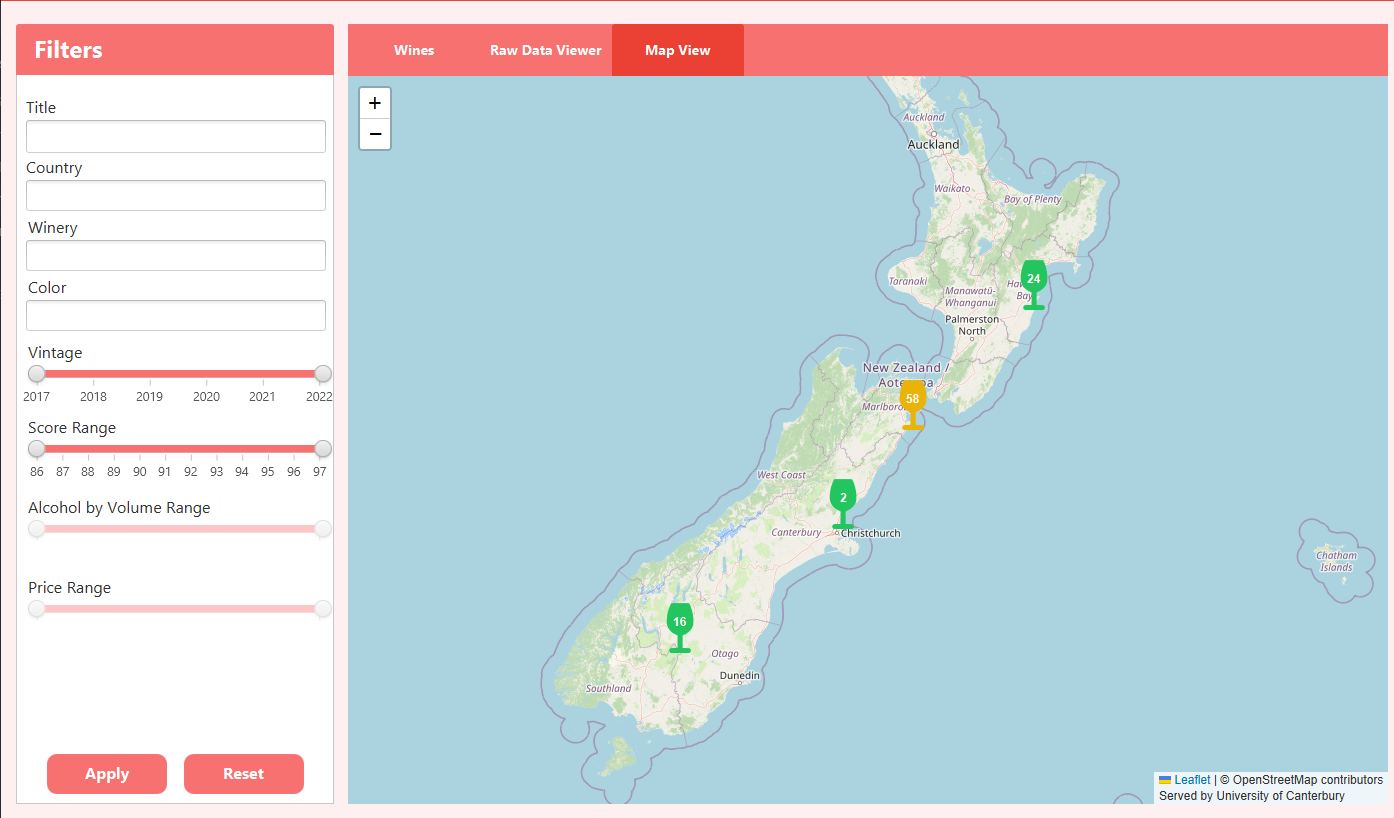
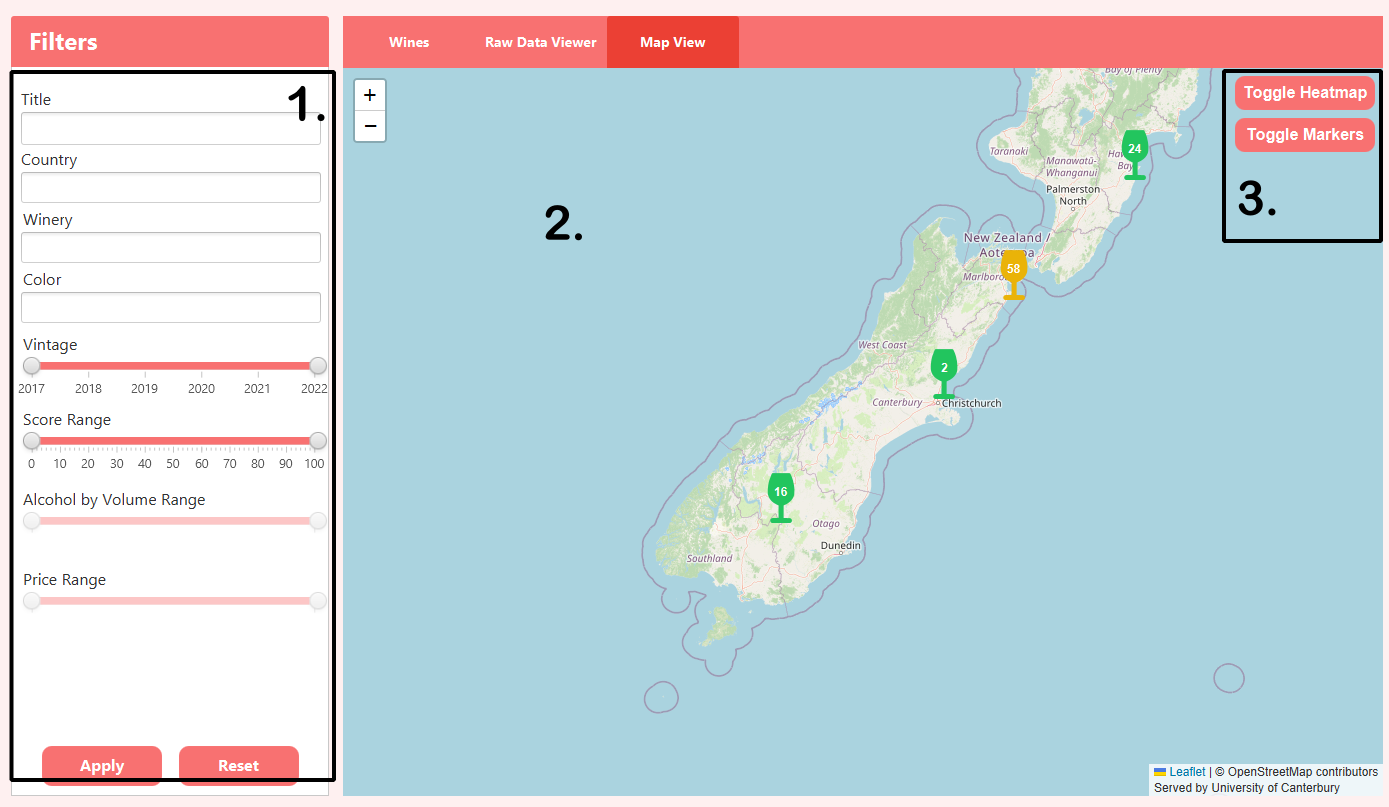
More manual pages; more images

Changed region(s): [[0.0, 0.0, 1.0, 0.9913], [0.9287, 0.6506, 0.9906, 0.7125], [0.3715, 0.2478, 0.4334, 0.3098]]

diff --git a/src/main/resources/html/map.html b/src/main/resources/html/map.html
@@ -1,0 +1,42 @@
+<!DOCTYPE html>
+<html lang="en">
+<head>
+  <meta charset="UTF-8">
+  <title>Filtering</title>
+</head>
+<body>
+<div class="title-block">
+  <h1>The Map Screen</h1>
+
+</div>
+<div class="nav-container">
+  <div class="nav-button fl-left">
+    <a class="manual-link" href="javascript:history.back()">Go Back</a>
+  </div>
+
+  <div class="nav-button fl-right">
+    <a class="manual-link" href="ManualIndex.html">Home</a>
+  </div>
+
+</div>
+<div style="clear: both"></div>
+<div class="content-block">
+  <div class="manual-item">
+    <h3 class="card-title">Mapping Overview</h3>
+    <div class="diagram">
+      <img src="../img/HelpImages/mapscreen.png" width="700px">
+      <p class="d_label">Figure 1. The Map Screen</p>
+    </div>
+    <ol>
+      <li>The Filters panel. This is the same as the one on the <a href="wines.html">wines screen</a>, and your filters will persist across these screens.</li>
+      <li>The Map view itself. This shows the place where the wines come from.</li>
+      <li>The map buttons these allow you to toggle the markes and the heatmap on and off.</li>
+    </ol>
+    <p class="card-content">This is the mapping view. It shows where the wine comes from on the map. This feature is only available for wines which come from New Zealand. The wine glass icons will cluster together when they are close - The number on the icon represents the number of wines in this cluster.</p>
+  </div>
+  <div class="manual-item">
+    <h3 class="card-title">Map Options</h3>
+    <p class="card-content">The buttons in the top right allow you to toggle the heatmap and icons on and off. The heatmap is a visual representation of where most of the wines come from.</p>
+  </div>
+</div>
+</body>

diff --git a/src/main/resources/html/note_list.html b/src/main/resources/html/note_list.html
@@ -33,7 +33,7 @@
 
     <div class="manual-item" >
         <h3 class="card-title">Using Lists</h3>
-        <p class="card-content">You can use a List to create a collection of wines that is saved to your account. THis is useful for creating shopping list, remembering your favourite bottles, and more. To add a wine to a list, go to its <a href="detailed_view.html" class="link">detailed view</a> and click on the 'Open Lists' button.</p>
+        <p class="card-content">You can use a List to create a collection of wines that is saved to your account. This is useful for creating shopping list, remembering your favourite bottles, and more. To add a wine to a list, go to its <a href="detailed_view.html" class="link">detailed view</a> and click on the 'Open Lists' button.</p>
         <div class="diagram">
             <img src="../img/HelpImages/list_popup.png" width = "300px" class="diagram_img">
             <p class="d_label">Figure X. The lists menu</p>

diff --git a/src/main/resources/html/raw_data.html b/src/main/resources/html/raw_data.html
@@ -30,7 +30,7 @@
         <li>The Filters panel. THis is the same as the one on the standard <a href="wines.html" class="link">wine view</a>, and your filters will persist across these two pages.</li>
         <li>The Table panel. This shows all the data in a compact table view.
       </ol>
-      <p class="card-content">This is the raw data view screen. It lets you view all the data in the database in a compact table format. Like the standard wine view, you can open the <a href="detailed_view.html" class="link">detailed view</a> by double-clicking on an entry.</p>
+      <p class="card-content">This is the raw data view screen. It lets you view all the data in the database in a compact table format. Like the standard wine view, you can open the <a href="detailed_view.html" class="link">detailed view</a> by double-clicking on an entry. This view also uses the same paging system as the standard wine view.</p>
     </div>
   </div>
 </div>
